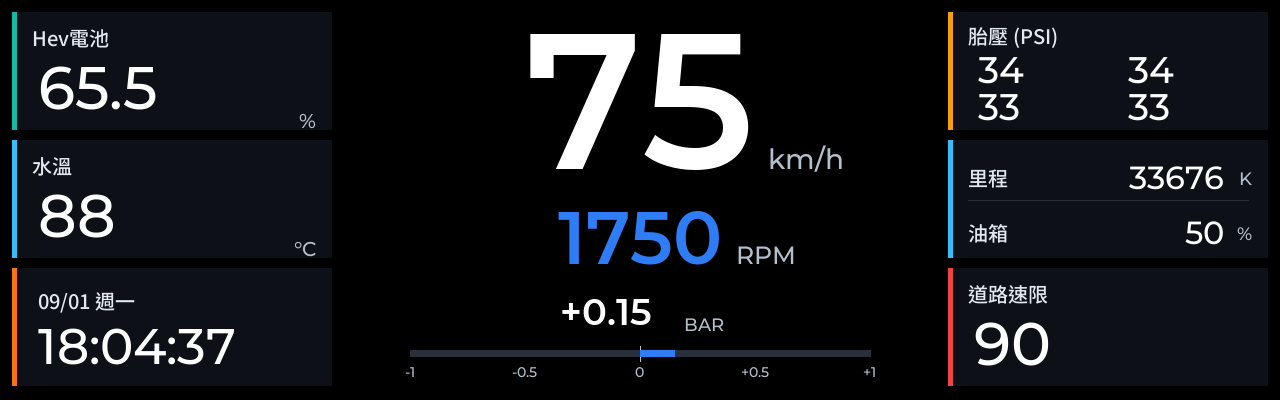
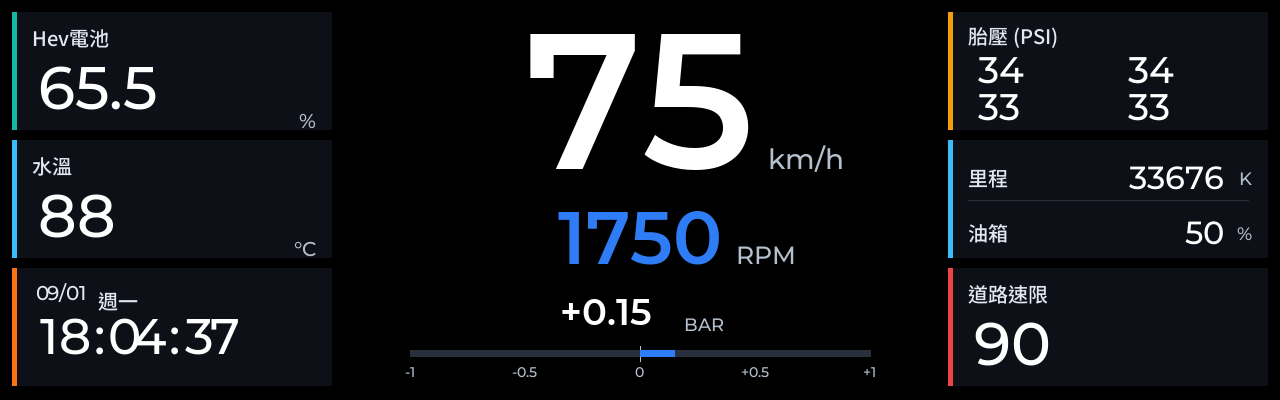
feat: 背景圖改用 DGUS 字格排時鐘與日期
DGUS 的 0# ASCII 是等寬點陣，字寬固定是字級的一半，跟 Montserrat 不同。
時鐘的冒號與日期的斜線是靜態的、必須畫進背景圖，位置就得用 DGUS 的字格算，
否則螢幕疊上來的數字會跟背景的符號對不齊。

加入 CELL() 與 cell_text()，並把基線比例（BASELINE_RATIO）獨立出來，
讓設定檔產生器共用同一個定義。

星期是中文，Data Variable 顯示不出來，改成 7 張圖示由 VP 切換，
維持「螢幕端不需要字型檔」。

順帶讓本檔可被 import：座標只能有一份，設定檔產生器要拿它當來源。

Changed region(s): [[0.0312, 0.69, 0.1875, 0.93]]

diff --git a/esp32_display/dwin_dashboard/tools/gen_background.py b/esp32_display/dwin_dashboard/tools/gen_background.py
@@ -18,12 +18,14 @@ from PIL import Image, ImageDraw, ImageFont
 W = 1280
 # 第二參數可指定畫面高度（DMG12480C068=480、DMG12400C074=400）。
 # 兩者同為 1280 寬，因此只縮放垂直座標與字級。
-H = int(sys.argv[2]) if len(sys.argv) > 2 else 480
+# 也接受環境變數，讓 gen_dgus_config.py 能 import 本檔共用座標
+H = int(os.environ.get("NX4_HEIGHT") or
+        (sys.argv[2] if len(sys.argv) > 2 else 480))
 S = H / 480.0
 SUFFIX = "" if H == 480 else "_%d" % H
 
 OUT = os.path.join(os.path.dirname(__file__), "..", "assets")
-FONTS = sys.argv[1] if len(sys.argv) > 1 else "fonts"
+FONTS = os.environ.get("NX4_FONTS") or (sys.argv[1] if len(sys.argv) > 1 else "fonts")
 
 def V(y):
     """垂直座標依畫面高度縮放"""
@@ -82,6 +84,45 @@ TURBO_CY      = V(374)
 TURBO_BAR_Y   = V(420)
 TURBO_BAR_W   = 460
 TURBO_BAR_X   = CX - TURBO_BAR_W // 2
+
+# ── 動態數值在 DGUS 端的字元格 ─────────────────────────────────────────
+# DGUS 的 0# ASCII 字型是等寬點陣：字高 = 字級、字寬 = 字級 / 2。
+# 時鐘的 ":" 與日期的 "/" 是分隔符號，Data Variable 顯示不出來，
+# 只能畫進背景圖；位置必須用 DGUS 的字元格算，不能用 Montserrat 的字寬，
+# 否則背景的冒號會跟螢幕疊上去的數字對不齊。
+def CW(fs):
+    """DGUS 0# ASCII 的字寬"""
+    return fs // 2
+
+def CELL(x0, fs, i):
+    """第 i 個字元格的左緣"""
+    return x0 + i * CW(fs)
+
+# 點陣字的基線大約落在字格高度的這個比例處。背景圖上的冒號、斜線與單位
+# 都要對到這條線，數值才不會浮起來。gen_dgus_config.py 也用同一個值算 Y。
+BASELINE_RATIO = 0.78
+
+def cell_text(d, x0, fs, top, i, sval, font, fill):
+    """把字串逐字放進字元格（每格置中），模擬 DGUS 的等寬點陣排版。
+
+    Montserrat 的數字比 DGUS 的 fs/2 寬，整串直接畫會越格、
+    把背景的冒號蓋掉，預覽就看不出實機的落點。
+    """
+    base = top + int(fs * BASELINE_RATIO)
+    for k, ch in enumerate(sval):
+        text(d, (CELL(x0, fs, i + k) + CW(fs) // 2, base), ch, font, fill, "ms")
+
+# 時鐘 HH:MM:SS 共 8 格，冒號在第 2、5 格
+CLOCK_FS  = FS(60)
+CLOCK_X0  = LEFT_X + 26
+CLOCK_TOP = ROW_Y[2] + V(56)
+# 日期 MM/DD 共 5 格，斜線在第 2 格；星期是圖示，接在第 6 格之後
+DATE_FS   = FS(24)
+DATE_X0   = LEFT_X + 26
+DATE_TOP  = ROW_Y[2] + V(20)
+WEEK_X    = CELL(DATE_X0, DATE_FS, 6)
+WEEK_W    = DATE_FS * 2       # 「週一」兩個中文字
+WEEK_H    = DATE_FS
 
 def f(name, size):
     return ImageFont.truetype(os.path.join(FONTS, name), size)
@@ -148,6 +189,12 @@ def draw_static(d):
     text(d, (SPEED_UNIT_X, SPEED_BASE), "km/h", F_UNIT(FS(34)), UNIT, "ls")
     text(d, (RPM_UNIT_X, RPM_BASE), "RPM", F_UNIT(FS(30)), UNIT, "ls")
 
+    # 時鐘與日期的分隔符號（數字由 DGUS 疊上去，分隔符號只能是靜態的）
+    for i in (2, 5):
+        cell_text(d, CLOCK_X0, CLOCK_FS, CLOCK_TOP, i, ":",
+                  F_NUM_MD(CLOCK_FS), TEXT)
+    cell_text(d, DATE_X0, DATE_FS, DATE_TOP, 2, "/", F_NUM_MD(DATE_FS), LABEL)
+
     # 增壓：軌道、中線、刻度
     d.rectangle([TURBO_BAR_X, TURBO_BAR_Y,
                  TURBO_BAR_X + TURBO_BAR_W, TURBO_BAR_Y + V(7)], fill=BAR_BG)
@@ -161,10 +208,14 @@ def draw_dynamic(d):
     # 左欄
     text(d, (LEFT_X + 26, ROW_Y[0] + V(46)), "65.5", F_NUM_MD(FS(72)), TEXT)
     text(d, (LEFT_X + 26, ROW_Y[1] + V(46)), "88",   F_NUM_MD(FS(72)), TEXT)
-    text(d, (LEFT_X + 26, ROW_Y[2] + V(20)), "09/01 週一", F_TC(FS(24)), LABEL)
+    # 日期與時鐘：數字逐格畫，位置與 DGUS 的等寬字元格一致
+    for i, v in ((0, "09"), (3, "01")):
+        cell_text(d, DATE_X0, DATE_FS, DATE_TOP, i, v, F_NUM_MD(DATE_FS), LABEL)
+    text(d, (WEEK_X, DATE_TOP), "週一", F_TC(DATE_FS), LABEL)
     # 60px 而非 64px：最寬的 "00:00:00" 在 64px 下是 276px，
     # 卡片可用寬度只有 278px，餘裕不足以吸收實機的字型渲染差異
-    text(d, (LEFT_X + 26, ROW_Y[2] + V(56)), "18:04:37", F_NUM_MD(FS(60)), TEXT)
+    for i, v in ((0, "18"), (3, "04"), (6, "37")):
+        cell_text(d, CLOCK_X0, CLOCK_FS, CLOCK_TOP, i, v, F_NUM_MD(CLOCK_FS), TEXT)
 
     # 右欄
     for i, v in enumerate(["34", "34", "33", "33"]):
@@ -190,21 +241,41 @@ def draw_ev_icon():
     text(d, (EV_W // 2, EV_H // 2), "EV", F_NUM_SB(FS(88)), GREEN, "mm")
     return ico
 
-os.makedirs(OUT, exist_ok=True)
-bg = Image.new("RGB", (W, H), BG)
-draw_static(ImageDraw.Draw(bg))
-bg.save(os.path.join(OUT, "background%s.png" % SUFFIX))
+def draw_week_icons():
+    """星期圖示 0..6（週一..週日）。
 
-pv = bg.copy()
-draw_dynamic(ImageDraw.Draw(pv))
-pv.save(os.path.join(OUT, "preview%s.png" % SUFFIX))
+    星期是中文，Data Variable 只能顯示數字，而螢幕端不放中文字庫，
+    所以做成 7 張圖示由 Variable Icon 依 VP 值切換。底色與畫面一致。
+    """
+    out = []
+    for name in ["週一", "週二", "週三", "週四", "週五", "週六", "週日"]:
+        ico = Image.new("RGB", (WEEK_W, WEEK_H), CARD)
+        text(ImageDraw.Draw(ico), (WEEK_W // 2, WEEK_H // 2), name,
+             F_TC(DATE_FS), LABEL, "mm")
+        out.append(ico)
+    return out
 
-ev_icon = draw_ev_icon()
-ev_icon.save(os.path.join(OUT, "icon_ev%s.png" % SUFFIX))
+if __name__ == "__main__":
+    os.makedirs(OUT, exist_ok=True)
+    bg = Image.new("RGB", (W, H), BG)
+    draw_static(ImageDraw.Draw(bg))
+    bg.save(os.path.join(OUT, "background%s.png" % SUFFIX))
 
-# EV 狀態預覽：一般畫面再把 EV 圖示疊上轉速那一列
-pv_ev = pv.copy()
-pv_ev.paste(ev_icon, (EV_X, EV_Y))
-pv_ev.save(os.path.join(OUT, "preview_ev%s.png" % SUFFIX))
+    pv = bg.copy()
+    draw_dynamic(ImageDraw.Draw(pv))
+    pv.save(os.path.join(OUT, "preview%s.png" % SUFFIX))
 
-print("已輸出 %dx%d 的 background/preview/preview_ev/icon_ev%s" % (W, H, SUFFIX))
+    ev_icon = draw_ev_icon()
+    ev_icon.save(os.path.join(OUT, "icon_ev%s.png" % SUFFIX))
+
+    icon_dir = os.path.join(OUT, "icons%s" % SUFFIX)
+    os.makedirs(icon_dir, exist_ok=True)
+    for i, ico in enumerate(draw_week_icons()):
+        ico.save(os.path.join(icon_dir, "week_%d.png" % i))
+
+    # EV 狀態預覽：一般畫面再把 EV 圖示疊上轉速那一列
+    pv_ev = pv.copy()
+    pv_ev.paste(ev_icon, (EV_X, EV_Y))
+    pv_ev.save(os.path.join(OUT, "preview_ev%s.png" % SUFFIX))
+
+    print("已輸出 %dx%d 的 background/preview/preview_ev/icon_ev%s" % (W, H, SUFFIX))
